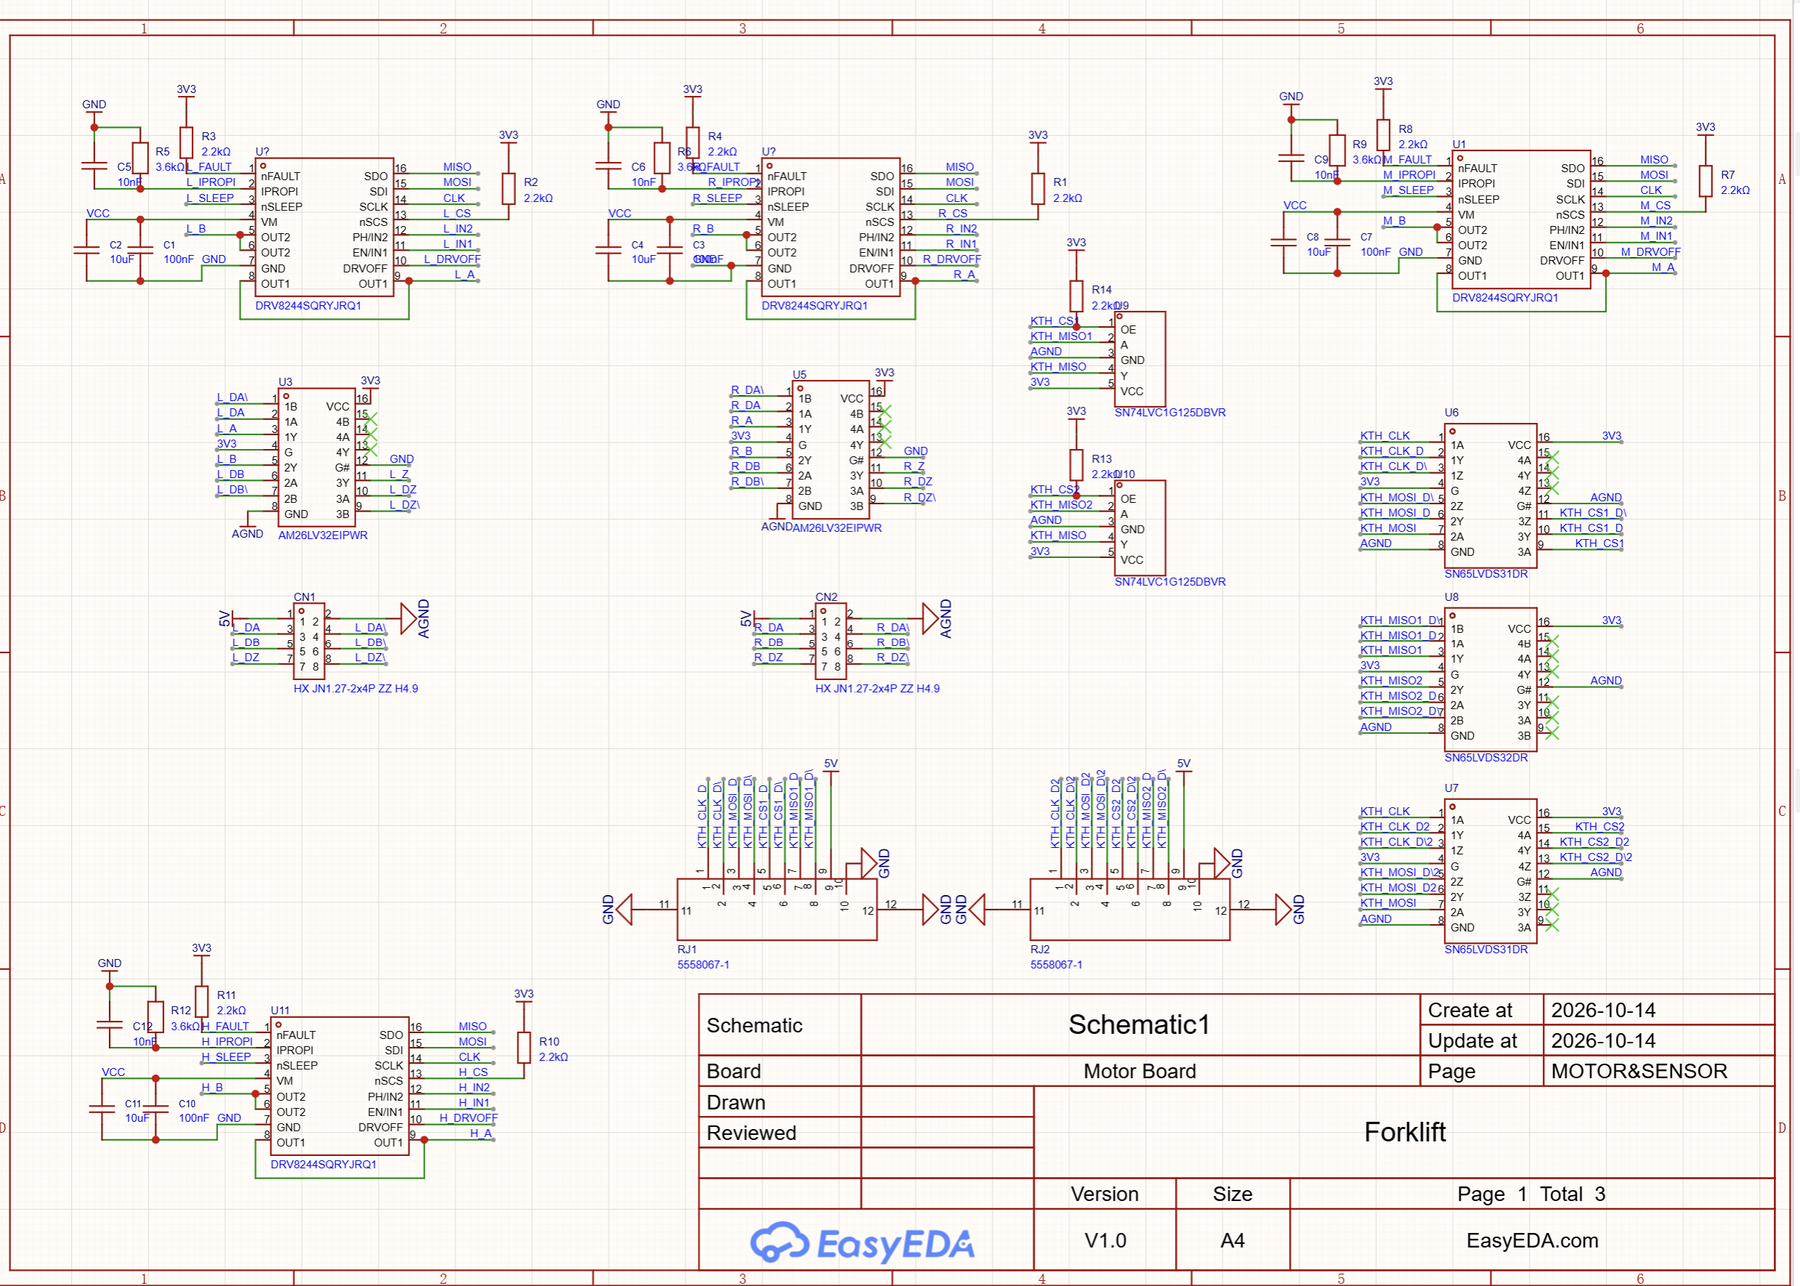
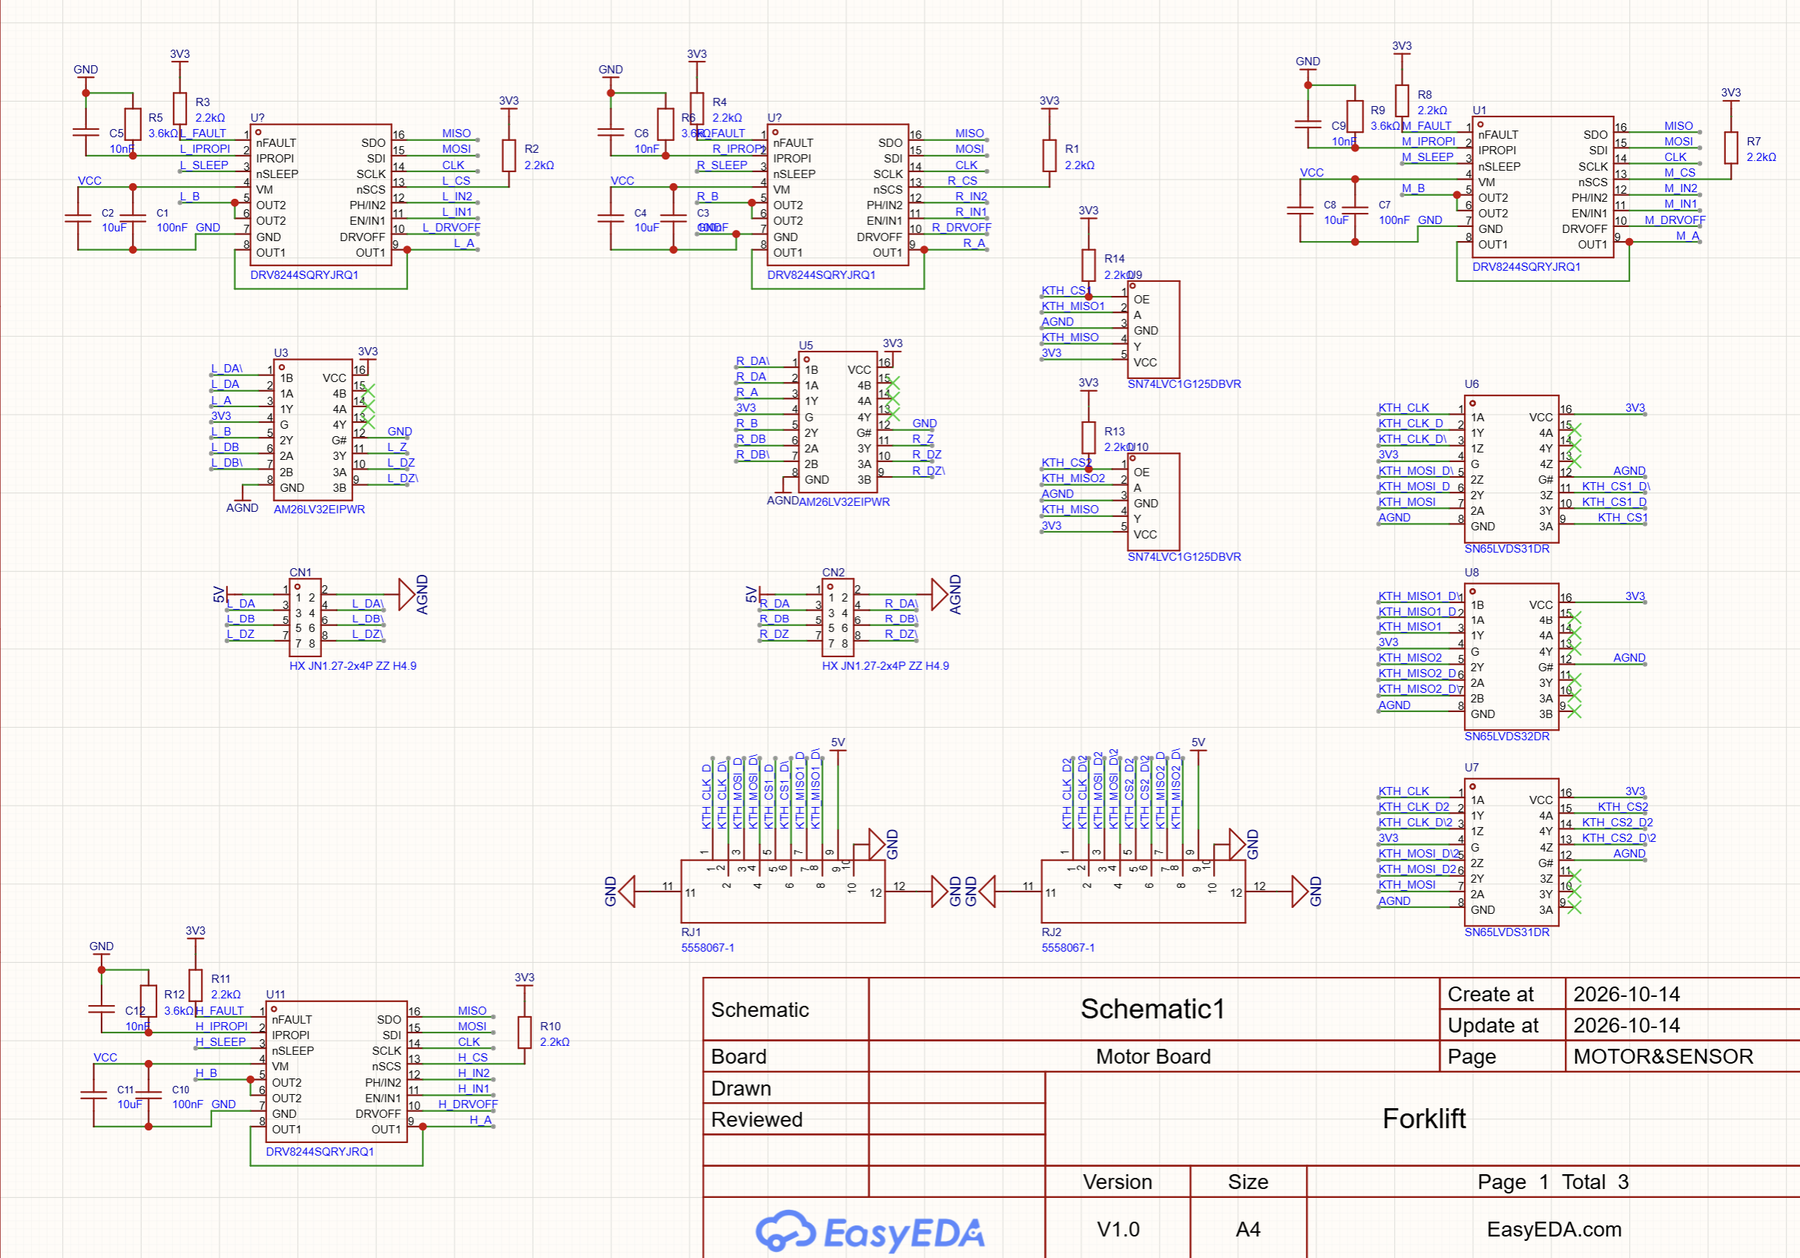
fix: week 7 slide 3 stacks the signal-path table and enlarges the main schematic -- the user asked for a tall narrow table and a bigger schematic; the table is a one-column list, the schematic loses its coordinate strip and caption and fills the height

diff --git a/week-07/index.html b/week-07/index.html
@@ -3,7 +3,7 @@
 <link rel="icon" href="data:,">
 <script src="vendor/react.production.min.js"></script><script src="vendor/react-dom.production.min.js"></script><script src="./support.js"></script></head>
 <body><x-dc><helmet><meta name="viewport" content="width=device-width, initial-scale=1"><title>7주차 자율 지게차 개발</title>
-<link rel="stylesheet" href="vendor/uos-slide-template/fonts/fonts.css"><link rel="stylesheet" href="vendor/uos-slide-template/_ds_bundle.css"><link rel="stylesheet" href="vendor/uos-slide-template/styles.css"><link rel="stylesheet" href="deck.css?v=af6ed075c3d5"><script src="vendor/uos-slide-template/_ds_bundle.js"></script></helmet>
+<link rel="stylesheet" href="vendor/uos-slide-template/fonts/fonts.css"><link rel="stylesheet" href="vendor/uos-slide-template/_ds_bundle.css"><link rel="stylesheet" href="vendor/uos-slide-template/styles.css"><link rel="stylesheet" href="deck.css?v=a432c613c361"><script src="vendor/uos-slide-template/_ds_bundle.js"></script></helmet>
 <x-import component-from-global-scope="deck-stage" from="./deck-stage.js" width="1280" height="720" hint-size="100%,100%">
 <section class="title-section" data-label="개발 진행 보고" data-screen-label="01" data-duration="25" data-speaker-notes="권장 25초
 
@@ -43,7 +43,7 @@ DRV8244SQRYJRQ1 × 4 (L · R · M · H), 커넥터 5V 공급: 팀 EasyEDA 자료
 보드 사이의 연결입니다. 왼쪽은 메인보드 회로도입니다. 바퀴 두 개에 단 MT6701 보드는 1.27밀리미터 2열 4핀 케이블로 메인보드에 바로 이어지고, A, B, Z 펄스와 그 반전 신호를 메인보드의 RS-422 수신기 AM26LV32가 받아 MCU 타이머의 엔코더 모드로 셉니다. 차동 수신기는 두 선의 전압 차이만 보므로, 모터 잡음처럼 두 선에 똑같이 실린 잡음은 빼기에서 사라집니다. 조향과 승강에 단 KTH7801 보드는 SPI로 각도 값을 내보내는데, SPI는 원래 한 보드 안에서 쓰는 단일 종단 신호라 먼 거리를 못 갑니다. 그래서 바로 옆에 STDS 보드를 두어 SPI 네 선을 LVDS 차동 신호로 바꾸고, RJ50 케이블로 메인보드에 보냅니다. 메인보드는 SN65LVDS31로 클럭과 데이터를 보내고 SN65LVDS32로 돌아오는 데이터를 받습니다. 전원은 모든 케이블에 5볼트로 실어 보내고 센서 쪽 보드에서 3.3볼트로 낮춥니다. (전환)
 
 [Sources]
-그림: 팀 메인보드 회로도 1쪽 (크기만 줄임)
+그림: 팀 메인보드 회로도 1쪽 (바깥 좌표 띠만 잘라 냄)
 DRV8244SQRYJRQ1 × 4 (L · R · M · H 신호 이름), AM26LV32EIPWR U3 · U5, HX JN1.27-2x4P CN1 · CN2 (5 V · AGND · L/R_DA · DB · DZ와 반전), SN74LVC1G125DBVR U9 · U10, SN65LVDS31DR U6 · U7, SN65LVDS32DR U8, 5558067-1 RJ1 · RJ2: 팀 EasyEDA 자료 (2026-10-14) mainboard_1.png
 센서 쪽 TLV70233DBVR (VCC → 3V3), CN1 HX JN1.27-2x4P, STDS RJ1 5558067-1: 팀 EasyEDA 자료 (2026-10-14) mt6701_3 · kth7801_3 · stds_1
 차동 신호 기반 통신, 5 V로 보내 3.3 V LDO로 강하, RJ50 선택: 사용자 (2026-10-14)
@@ -51,8 +51,11 @@ DRV8244SQRYJRQ1 × 4 (L · R · M · H 신호 이름), AM26LV32EIPWR U3 · U5, H
 <x-import component-from-global-scope="UOSSlideDS.ContentSlide" hint-size="100%,100%" title="02  보드 구성과 신호 경로"><div class="slide-body">
 <h2 class="headline">바퀴 엔코더는 RS-422 수신기로, 조향 · 승강 엔코더는 STDS를 거쳐 LVDS로 연결</h2>
 <div class="hw7 sch3 grow">
-<figure class="shot sch"><img class="media" src="assets/83_main_sch.png" alt="메인보드 회로도 1쪽 MOTOR&amp;SENSOR 전체. 위와 왼쪽 아래에 DRV8244 네 개, 가운데 AM26LV32 두 개와 1.27 mm 커넥터 두 개, 오른쪽에 SN74LVC1G125 두 개, SN65LVDS31 두 개, SN65LVDS32 한 개, 아래 RJ 잭 두 개"><figcaption>메인보드 회로도</figcaption></figure>
-<table class="comparison h7 nwall"><tr><th>측정</th><th>신호 경로</th></tr><tr><td>바퀴 L, R</td><td>MT6701 → RS-422</td></tr><tr><td>조향, 승강</td><td>KTH7801 → STDS → LVDS</td></tr><tr><td>전원</td><td>5 V → LDO 3.3 V</td></tr></table>
+<figure class="shot sch"><img class="media" src="assets/83_main_sch.png" alt="메인보드 회로도 1쪽 MOTOR&amp;SENSOR 전체. 위와 왼쪽 아래에 DRV8244 네 개, 가운데 AM26LV32 두 개와 1.27 mm 커넥터 두 개, 오른쪽에 SN74LVC1G125 두 개, SN65LVDS31 두 개, SN65LVDS32 한 개, 아래 RJ 잭 두 개"></figure>
+<table class="comparison h7 vt7"><tr><th>신호 경로</th></tr>
+<tr><td><b>바퀴 L, R</b><br>MT6701 → RS-422</td></tr>
+<tr><td><b>조향, 승강</b><br>KTH7801 → STDS → LVDS</td></tr>
+<tr><td><b>전원</b><br>5 V → LDO 3.3 V</td></tr></table>
 </div>
 <div class="takeaway">바퀴 엔코더는 회전 펄스를, 조향과 승강 엔코더는 SPI로 각도 값을 보내므로 신호 종류에 맞는 차동 방식을 씁니다</div>
 </div></x-import>

diff --git a/week-07/deck.css b/week-07/deck.css
@@ -641,3 +641,9 @@ video::-webkit-media-controls, video::-webkit-media-controls-enclosure { display
 .hw7.sch3 > .shot.sch { height:100%; width:auto; aspect-ratio:1800 / 1340; justify-self:start; }
 .comparison.h7.enc7t th:first-child, .comparison.h7.enc7t td:first-child { width:14%; }
 .comparison.h7.enc7t td[colspan] { text-align:center; }
+/* slide 3: narrow stacked table, the schematic (frame cropped, no caption) as tall as the slide allows */
+.hw7.sch3 { gap:24px; }
+.hw7.sch3 > .shot.sch { aspect-ratio:2426 / 1696; padding:0; }
+.comparison.h7.vt7 { font-size:21px; line-height:1.45; align-self:center; }
+.comparison.h7.vt7 td { padding:14px 12px; white-space:nowrap; font-weight:400; }
+.comparison.h7.vt7 td b { color:#1b1f24; }

diff --git a/week-07/build_deck.py b/week-07/build_deck.py
@@ -246,11 +246,11 @@ add('전원과 제어 구성', '01  전원과 제어 구성', 55, f"""
 add('보드 구성과 신호 경로', '02  보드 구성과 신호 경로', 55, f"""
 <h2 class="headline">바퀴 엔코더는 RS-422 수신기로, 조향 · 승강 엔코더는 STDS를 거쳐 LVDS로 연결</h2>
 <div class="hw7 sch3 grow">
-{sch('83_main_sch.png', '메인보드 회로도 1쪽 MOTOR&SENSOR 전체. 위와 왼쪽 아래에 DRV8244 네 개, 가운데 AM26LV32 두 개와 1.27 mm 커넥터 두 개, 오른쪽에 SN74LVC1G125 두 개, SN65LVDS31 두 개, SN65LVDS32 한 개, 아래 RJ 잭 두 개', '메인보드 회로도')}
-{table(['측정', '신호 경로'], [
-    ('바퀴 L, R', 'MT6701 → RS-422'),
-    ('조향, 승강', 'KTH7801 → STDS → LVDS'),
-    ('전원', '5 V → LDO 3.3 V')], 'comparison h7 nwall')}
+{sch('83_main_sch.png', '메인보드 회로도 1쪽 MOTOR&SENSOR 전체. 위와 왼쪽 아래에 DRV8244 네 개, 가운데 AM26LV32 두 개와 1.27 mm 커넥터 두 개, 오른쪽에 SN74LVC1G125 두 개, SN65LVDS31 두 개, SN65LVDS32 한 개, 아래 RJ 잭 두 개')}
+<table class="comparison h7 vt7"><tr><th>신호 경로</th></tr>
+<tr><td><b>바퀴 L, R</b><br>MT6701 → RS-422</td></tr>
+<tr><td><b>조향, 승강</b><br>KTH7801 → STDS → LVDS</td></tr>
+<tr><td><b>전원</b><br>5 V → LDO 3.3 V</td></tr></table>
 </div>
 <div class="takeaway">바퀴 엔코더는 회전 펄스를, 조향과 승강 엔코더는 SPI로 각도 값을 보내므로 신호 종류에 맞는 차동 방식을 씁니다</div>
 """,
@@ -258,7 +258,7 @@ add('보드 구성과 신호 경로', '02  보드 구성과 신호 경로', 55, 
     [(MAIN, 'DRV8244SQRYJRQ1 × 4 (L · R · M · H 신호 이름), AM26LV32EIPWR U3 · U5, HX JN1.27-2x4P CN1 · CN2 (5 V · AGND · L/R_DA · DB · DZ와 반전), SN74LVC1G125DBVR U9 · U10, SN65LVDS31DR U6 · U7, SN65LVDS32DR U8, 5558067-1 RJ1 · RJ2'),
      (f'{TEAM} mt6701_3 · kth7801_3 · stds_1', '센서 쪽 TLV70233DBVR (VCC → 3V3), CN1 HX JN1.27-2x4P, STDS RJ1 5558067-1'),
      ('사용자 (2026-10-14)', '차동 신호 기반 통신, 5 V로 보내 3.3 V LDO로 강하, RJ50 선택')],
-    '그림: 팀 메인보드 회로도 1쪽 (크기만 줄임)')
+    '그림: 팀 메인보드 회로도 1쪽 (바깥 좌표 띠만 잘라 냄)')
 
 # ----------------------------------------------------------------- 4
 add('모터 드라이버 4채널', '03  모터 드라이버 4채널', 50, f"""

diff --git a/week-07/prepare_figures.py b/week-07/prepare_figures.py
@@ -74,7 +74,8 @@ def main(src, out):
         fit(trim_sheet(Image.open(src / name)), 1500).save(o(dst), optimize=True)
 
     main_sheet = Image.open(src / 'mainboard_1.png').convert('RGB')   # 2477 x 1770
-    fit(main_sheet, 1800).save(o('83_main_sch.png'), optimize=True)
+    # the whole sheet inside its frame (the coordinate strip around it dropped)
+    fit(main_sheet.crop((14, 50, 2440, 1746)), 1800).save(o('83_main_sch.png'), optimize=True)
     # blocks of the main sheet (original pixel coordinates, read off the sheet)
     blocks = {'83_main_drv.png': (95, 100, 790, 460),      # L channel: DRV8244 U? with its parts
               '83_main_rj.png': (835, 1030, 1850, 1355)}   # RJ1/RJ2 (KTH7801 cables)

diff --git a/week-07/VALIDATION.md b/week-07/VALIDATION.md
@@ -41,3 +41,4 @@
 - 사용자 지시(같은 날): 6쪽 띠(「두 보드 모두 작게 두고 …」) 삭제, 남는 높이는 회로도 두 장이 차지.
 - 사용자 지시(같은 날): 7쪽 그래프의 잡음 주파수를 줄여 한눈에 보이게 — 일곱 줄 중 없음 · 100 kHz · 1 MHz · 10 MHz 네 줄만 그리고 글자를 키웠다(원고 수치는 그대로 이 네 줄 안에 있음).
 - 사용자 지시(같은 날): 11쪽 질문 띠(「엔코더 커넥터 핀 간격은 … 어느 쪽이 나을까요?」) 삭제.
+- 사용자 지시(같은 날): 3쪽 표를 세로로 좁게(한 칸짜리 목록), 메인보드 회로도는 바깥 좌표 띠를 잘라 내고 캡션을 빼서 더 크게.
